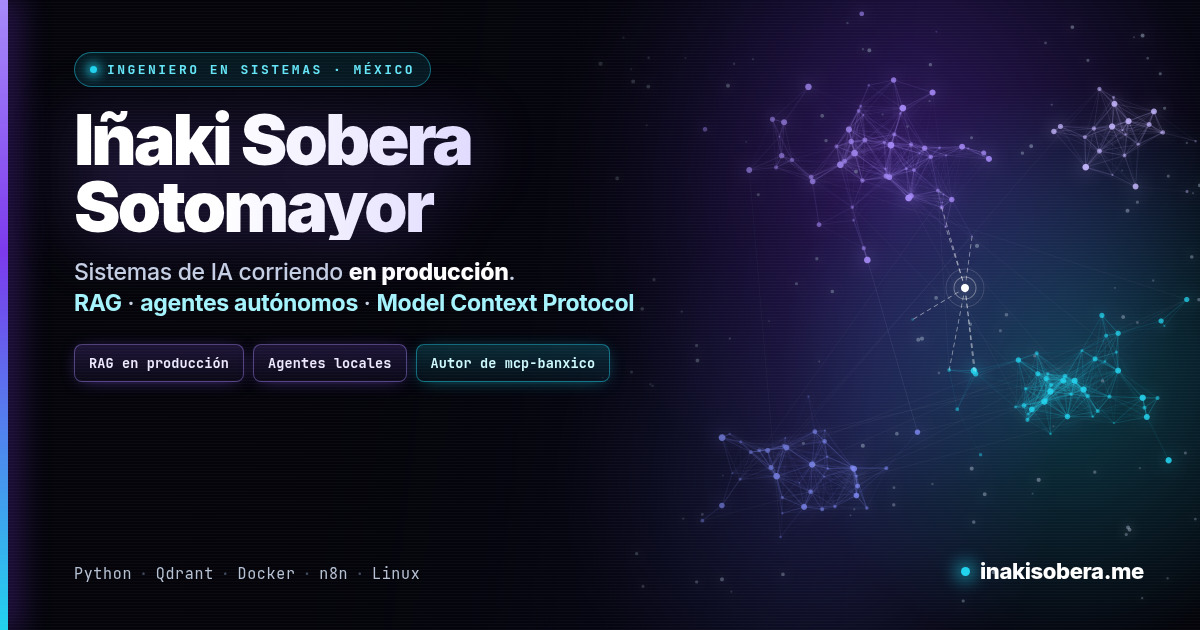
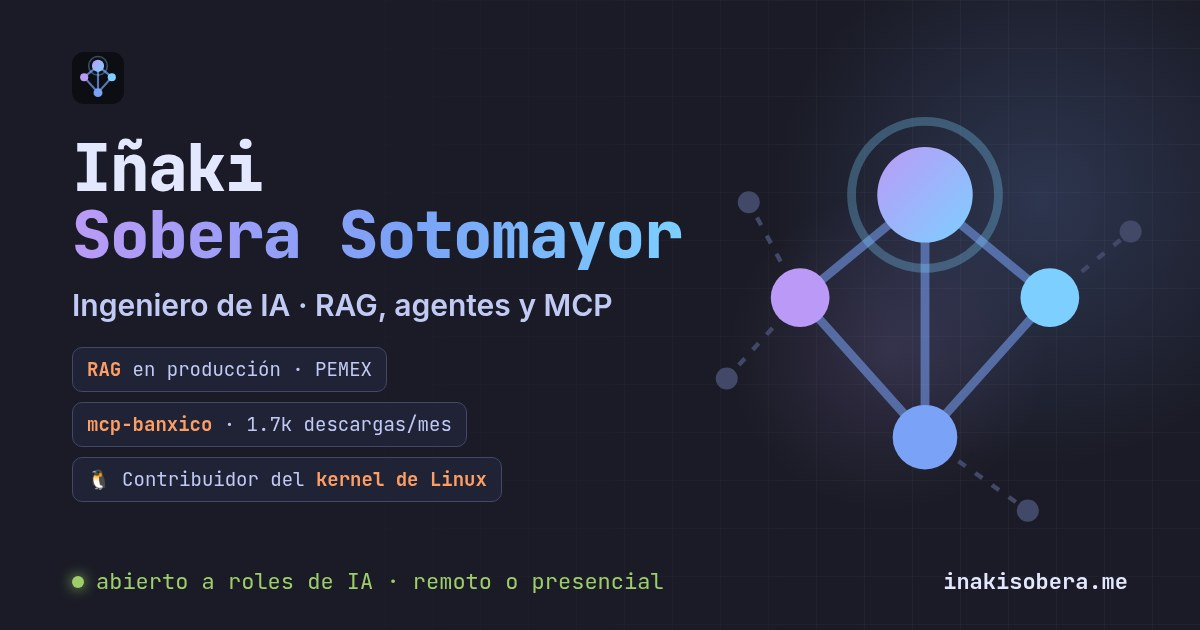
feat: imagen para compartir con la marca (es y en)
Fuente en og/og.html (npm run og); cada idioma comparte su propia imagen.

diff --git a/og/og.html b/og/og.html
@@ -1,0 +1,90 @@
+<!doctype html>
+<html>
+<head>
+<meta charset="utf-8">
+<!-- Source of public/og-image.jpg (?lang=es) and public/og-image-en.jpg (?lang=en). Rebuild: npm run og -->
+<style>
+  @font-face { font-family: Inter; src: url(../node_modules/@fontsource-variable/inter/files/inter-latin-wght-normal.woff2) format("woff2"); font-weight: 100 900; }
+  @font-face { font-family: JBM; src: url(../node_modules/@fontsource-variable/jetbrains-mono/files/jetbrains-mono-latin-wght-normal.woff2) format("woff2"); font-weight: 100 800; }
+  :root { --bg:#1a1b26; --bg2:#0d0e14; --line:#292e42; --fg:#c0caf5; --fg2:#a9b1d6; --dim:#565f89; --blue:#7aa2f7; --cyan:#7dcfff; --mag:#bb9af7; --green:#9ece6a; --orange:#ff9e64; }
+  * { box-sizing: border-box; margin: 0; }
+  html, body { width: 1200px; height: 630px; overflow: hidden; }
+  body { background: var(--bg); color: var(--fg); font-family: Inter, sans-serif; position: relative; }
+  /* faint grid fading out to the left */
+  .grid { position: absolute; inset: 0; background-image: linear-gradient(#ffffff08 1px, transparent 1px), linear-gradient(90deg, #ffffff08 1px, transparent 1px); background-size: 48px 48px; -webkit-mask-image: linear-gradient(90deg, transparent 20%, #000 75%); }
+  .glow { position: absolute; width: 760px; height: 760px; right: -220px; top: -180px; background: radial-gradient(closest-side, #7aa2f733, transparent 70%), radial-gradient(closest-side at 30% 70%, #bb9af726, transparent 70%); }
+  .net { position: absolute; right: 40px; top: 70px; width: 470px; height: 470px; }
+  .content { position: absolute; left: 72px; top: 52px; width: 660px; }
+  .brand { display: flex; align-items: center; gap: 14px; font-family: JBM; font-size: 22px; color: var(--fg2); }
+  .brand img { width: 52px; height: 52px; }
+  h1 { font-family: JBM; font-weight: 800; font-size: 66px; line-height: 1.02; letter-spacing: -1.5px; margin-top: 30px; color: #e3e8ff; }
+  h1 .grad { background: linear-gradient(90deg, var(--mag), var(--blue) 55%, var(--cyan)); -webkit-background-clip: text; background-clip: text; color: transparent; }
+  .role { font-size: 30px; font-weight: 600; color: var(--fg); margin-top: 18px; }
+  .chips { display: flex; flex-direction: column; align-items: flex-start; gap: 10px; margin-top: 24px; }
+  .chip { font-family: JBM; font-size: 19px; padding: 9px 14px; border-radius: 10px; border: 1px solid #414868; background: #1f2335; color: var(--fg); }
+  .chip b { color: var(--orange); font-weight: 700; }
+  .footer { position: absolute; left: 72px; right: 72px; bottom: 34px; display: flex; justify-content: space-between; align-items: center; font-family: JBM; font-size: 22px; }
+  .status { color: var(--green); display: flex; align-items: center; gap: 12px; }
+  .dot { width: 12px; height: 12px; border-radius: 50%; background: var(--green); box-shadow: 0 0 14px var(--green); }
+  .url { color: #e3e8ff; font-weight: 700; }
+</style>
+</head>
+<body>
+  <div class="grid"></div>
+  <div class="glow"></div>
+
+  <!-- the brand network, large, as the visual on the right -->
+  <svg class="net" viewBox="0 0 64 64" aria-hidden="true">
+    <defs><linearGradient id="top" x1="0" y1="0" x2="1" y2="1"><stop offset="0" stop-color="#bb9af7"/><stop offset="1" stop-color="#7dcfff"/></linearGradient></defs>
+    <g stroke="#7aa2f7" stroke-width="1.2" stroke-linecap="round" stroke-opacity=".55">
+      <line x1="32" y1="17" x2="15" y2="31"/><line x1="32" y1="17" x2="49" y2="31"/><line x1="15" y1="31" x2="32" y2="50"/><line x1="49" y1="31" x2="32" y2="50"/><line x1="32" y1="17" x2="32" y2="50"/>
+    </g>
+    <g stroke="#414868" stroke-width=".6" stroke-dasharray="1.2 1.6">
+      <line x1="15" y1="31" x2="5" y2="42"/><line x1="49" y1="31" x2="60" y2="22"/><line x1="32" y1="50" x2="46" y2="60"/><line x1="15" y1="31" x2="8" y2="18"/>
+    </g>
+    <circle cx="5" cy="42" r="1.5" fill="#414868"/><circle cx="60" cy="22" r="1.5" fill="#414868"/><circle cx="46" cy="60" r="1.5" fill="#414868"/><circle cx="8" cy="18" r="1.5" fill="#414868"/>
+    <circle cx="15" cy="31" r="4" fill="#bb9af7"/>
+    <circle cx="49" cy="31" r="4" fill="#7dcfff"/>
+    <circle cx="32" cy="50" r="4.4" fill="#7aa2f7"/>
+    <circle cx="32" cy="17" r="10" fill="none" stroke="#7dcfff" stroke-opacity=".3" stroke-width="1.2"/>
+    <circle cx="32" cy="17" r="6.5" fill="url(#top)"/>
+  </svg>
+
+  <div class="content">
+    <div class="brand"><img src="../public/favicon.svg" alt=""></div>
+    <h1>Iñaki<br><span class="grad">Sobera Sotomayor</span></h1>
+    <p class="role" data-t="role"></p>
+    <div class="chips">
+      <span class="chip" data-t="c1"></span>
+      <span class="chip" data-t="c2"></span>
+      <span class="chip" data-t="c3"></span>
+    </div>
+  </div>
+
+  <div class="footer">
+    <span class="status"><span class="dot"></span><span data-t="status"></span></span>
+    <span class="url">inakisobera.me</span>
+  </div>
+
+  <script>
+    const t = {
+      es: {
+        role: "Ingeniero de IA · RAG, agentes y MCP",
+        c1: "<b>RAG</b> en producción · PEMEX",
+        c2: "<b>mcp-banxico</b> · 1.7k descargas/mes",
+        c3: "🐧 Contribuidor del <b>kernel de Linux</b>",
+        status: "abierto a roles de IA · remoto o presencial",
+      },
+      en: {
+        role: "AI Engineer · RAG, agents and MCP",
+        c1: "<b>Production RAG</b> · PEMEX",
+        c2: "<b>mcp-banxico</b> · 1.7k downloads/mo",
+        c3: "🐧 <b>Linux kernel</b> contributor",
+        status: "open to AI roles · remote or on-site",
+      },
+    };
+    const lang = new URLSearchParams(location.search).get("lang") === "en" ? "en" : "es";
+    document.querySelectorAll("[data-t]").forEach((el) => (el.innerHTML = t[lang][el.dataset.t]));
+  </script>
+</body>
+</html>

diff --git a/README.md b/README.md
@@ -22,6 +22,7 @@ npm run preview    # sirve dist/ como en producción
 npm run check      # tipos y validación del contenido
 npm test           # tests + enlaces rotos en dist/ (correr después de build)
 npm run cv         # regenera public/cv/cv_inaki_sobera.pdf desde cv/cv.es.html (usa Chrome)
+npm run og         # regenera las imágenes para compartir desde og/og.html (Chrome + ImageMagick)
 ```
 
 `npm run fetch` necesita `GH_TOKEN` (o `GITHUB_TOKEN`) para GitHub y `XEREBRO_TOKEN` para el MCP
@@ -47,6 +48,7 @@ su último valor en `live.json`.
 | Una nota del blog | `src/content/blog/{es,en}/<slug>.md` (`draft: true` = solo en `npm run dev`) |
 | Colores y fuentes | `src/styles/global.css` |
 | El CV en PDF | `cv/cv.es.html` y luego `npm run cv` |
+| Imagen al compartir el link | `og/og.html` y luego `npm run og` |
 | Comandos de la terminal | `src/views/TerminalView.astro` |
 
 ## Agregar un proyecto
